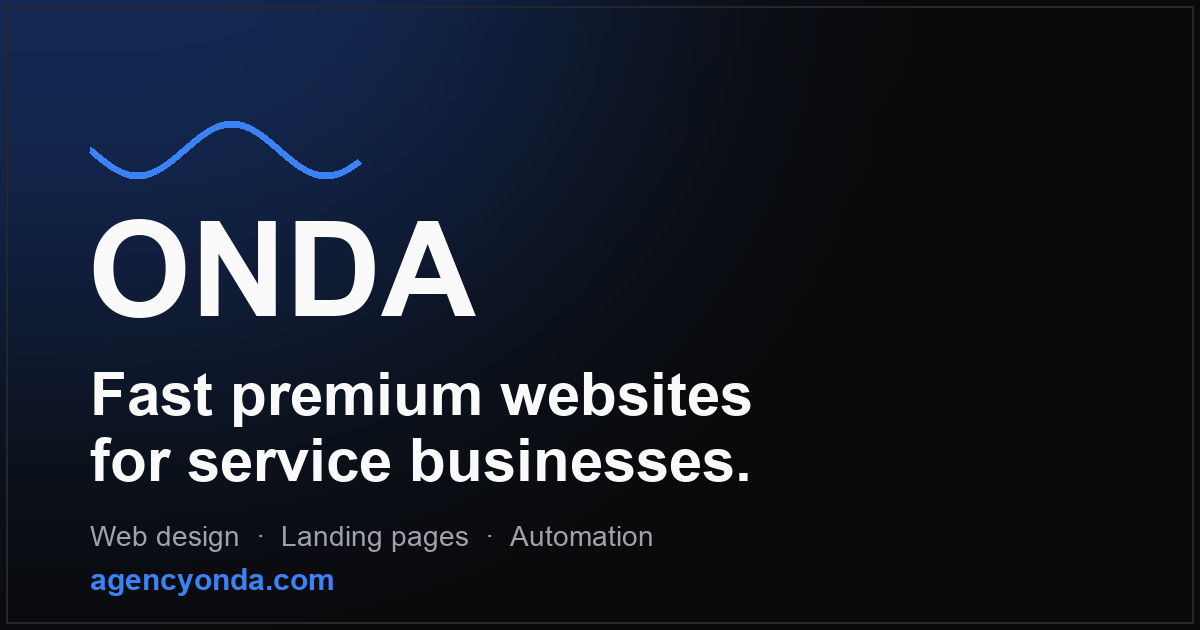
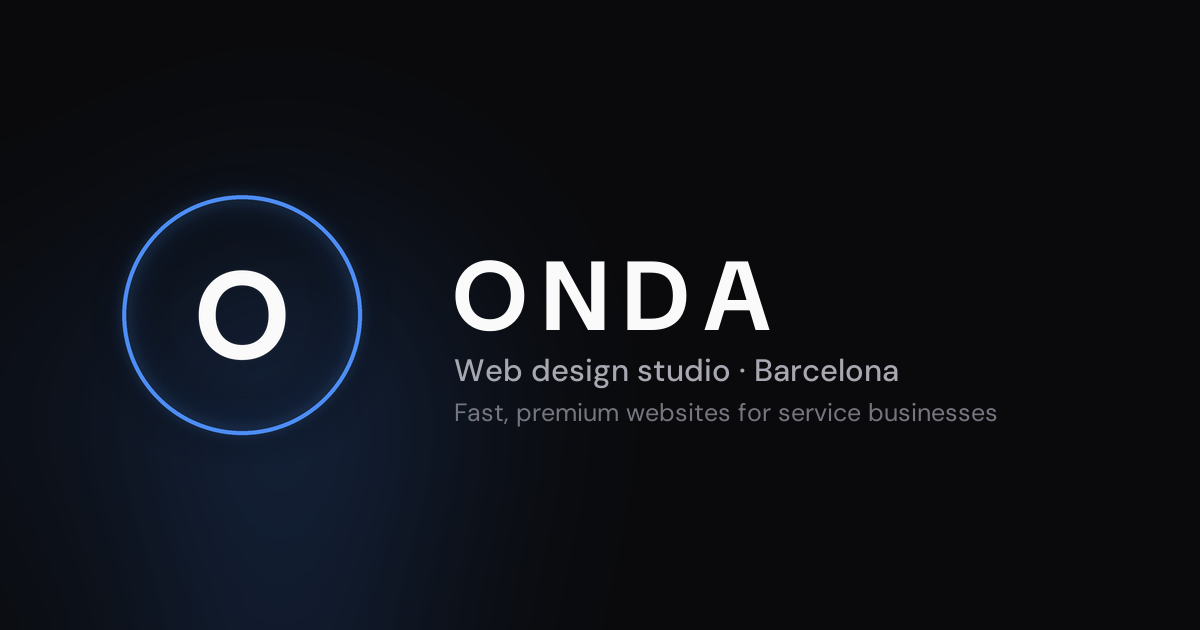
Designed share card + generated niche-page hero photos
og-image: replaced the share image with a proper 1200x630 card — the glowing
"O" mark + ONDA wordmark + "Web design studio · Barcelona" on the brand's dark
field (built with the real DM Sans font), instead of reusing a square asset.

Niche heroes: swapped the leftover stock heroes on all five vertical landing
pages (EN + ES) for bespoke 16:9 cinematic photos in the same art direction —
dental clinic, restaurant, real-estate living space, aesthetic clinic (replaces
the off-brand jewelry still life), and an architecture-studio still life. The
restaurants page also gains a real image (was a gradient placeholder). Removed
the four now-unused stock heroes (skyline/jewelry/dental/architecture).

diff --git a/frontend/web-design-restaurants-es.html b/frontend/web-design-restaurants-es.html
@@ -149,10 +149,7 @@
   <!-- niche cover -->
   <a class="cover lead-cover reveal" data-d="4" href="/index_es.html#contact" aria-label="Concepto de restaurante">
     <div class="media">
-      <div class="slot-serena" role="img" aria-label="Concepto de hospitalidad mediterránea cálida">
-        <span class="sun" aria-hidden="true"></span>
-        <span class="slot-tag">concepto · hospitalidad cálida</span>
-      </div>
+      <img src="/assets/niche/restaurants.webp" alt="Interior cálido de restaurante de alta gama al anochecer" width="2048" height="1152" loading="lazy" decoding="async" />
       <div class="scrim" aria-hidden="true"></div>
     </div>
     <div class="meta">

diff --git a/frontend/web-design-restaurants.html b/frontend/web-design-restaurants.html
@@ -149,10 +149,7 @@
   <!-- niche cover -->
   <a class="cover lead-cover reveal" data-d="4" href="/index_v5.html#contact" aria-label="Restaurant concept">
     <div class="media">
-      <div class="slot-serena" role="img" aria-label="Warm Mediterranean hospitality concept">
-        <span class="sun" aria-hidden="true"></span>
-        <span class="slot-tag">concept · warm hospitality</span>
-      </div>
+      <img src="/assets/niche/restaurants.webp" alt="Warm, upscale restaurant interior in the evening" width="2048" height="1152" loading="lazy" decoding="async" />
       <div class="scrim" aria-hidden="true"></div>
     </div>
     <div class="meta">

diff --git a/frontend/web-design-aesthetic-clinics-es.html b/frontend/web-design-aesthetic-clinics-es.html
@@ -149,7 +149,7 @@
   <!-- niche cover -->
   <a class="cover lead-cover reveal" data-d="4" href="/index_es.html#contact" aria-label="Concepto de clínica estética">
     <div class="media">
-      <img src="/assets/jewelry_hero.webp" alt="Bodegón de lujo oscuro iluminado como joya que evoca una clínica estética premium" loading="lazy" decoding="async" />
+      <img src="/assets/niche/aesthetic.webp" alt="Interior sereno de clínica estética de alta gama" width="2048" height="1152" loading="lazy" decoding="async" />
       <div class="grain" aria-hidden="true"></div>
       <div class="scrim" aria-hidden="true"></div>
     </div>

diff --git a/frontend/web-design-aesthetic-clinics.html b/frontend/web-design-aesthetic-clinics.html
@@ -149,7 +149,7 @@
   <!-- niche cover -->
   <a class="cover lead-cover reveal" data-d="4" href="/index_v5.html#contact" aria-label="Aesthetic clinic concept">
     <div class="media">
-      <img src="/assets/jewelry_hero.webp" alt="Dark luxury still life lit like a jewel, evoking a premium aesthetic clinic" loading="lazy" decoding="async" />
+      <img src="/assets/niche/aesthetic.webp" alt="Serene high-end aesthetic clinic interior" width="2048" height="1152" loading="lazy" decoding="async" />
       <div class="grain" aria-hidden="true"></div>
       <div class="scrim" aria-hidden="true"></div>
     </div>

diff --git a/frontend/web-design-architecture-studios-es.html b/frontend/web-design-architecture-studios-es.html
@@ -149,7 +149,7 @@
   <!-- niche cover -->
   <a class="cover lead-cover reveal" data-d="4" href="/index_es.html#contact" aria-label="Concepto de estudio de arquitectura">
     <div class="media">
-      <img src="/assets/architecture_studio_hero.png" alt="Arquitectura moderna escultural contra un cielo claro" loading="lazy" decoding="async" />
+      <img src="/assets/niche/architecture.webp" alt="Mesa de estudio de arquitectura con maquetas blancas y planos" width="2048" height="1152" loading="lazy" decoding="async" />
       <div class="grain" aria-hidden="true"></div>
       <div class="scrim" aria-hidden="true"></div>
     </div>

diff --git a/frontend/web-design-architecture-studios.html b/frontend/web-design-architecture-studios.html
@@ -149,7 +149,7 @@
   <!-- niche cover -->
   <a class="cover lead-cover reveal" data-d="4" href="/index_v5.html#contact" aria-label="Architecture studio concept">
     <div class="media">
-      <img src="/assets/architecture_studio_hero.png" alt="Sculptural modern architecture against a clear sky" loading="lazy" decoding="async" />
+      <img src="/assets/niche/architecture.webp" alt="Architecture studio desk with white scale models and blueprints" width="2048" height="1152" loading="lazy" decoding="async" />
       <div class="grain" aria-hidden="true"></div>
       <div class="scrim" aria-hidden="true"></div>
     </div>

diff --git a/frontend/web-design-dental-clinics-es.html b/frontend/web-design-dental-clinics-es.html
@@ -149,7 +149,7 @@
   <!-- niche cover -->
   <a class="cover lead-cover reveal" data-d="4" href="/index_es.html#contact" aria-label="Concepto de clínica dental">
     <div class="media">
-      <img src="/assets/dental_clinic_hero.png" alt="Interior de clínica dental moderna, luminosa y tranquila" loading="lazy" decoding="async" />
+      <img src="/assets/niche/dental.webp" alt="Interior de clínica dental moderna, luminosa y tranquila" width="2048" height="1152" loading="lazy" decoding="async" />
       <div class="grain" aria-hidden="true"></div>
       <div class="scrim" aria-hidden="true"></div>
     </div>

diff --git a/frontend/web-design-dental-clinics.html b/frontend/web-design-dental-clinics.html
@@ -149,7 +149,7 @@
   <!-- niche cover -->
   <a class="cover lead-cover reveal" data-d="4" href="/index_v5.html#contact" aria-label="Dental clinic concept">
     <div class="media">
-      <img src="/assets/dental_clinic_hero.png" alt="Modern, calm, brightly lit dental clinic interior" loading="lazy" decoding="async" />
+      <img src="/assets/niche/dental.webp" alt="Calm, bright modern dental clinic interior" width="2048" height="1152" loading="lazy" decoding="async" />
       <div class="grain" aria-hidden="true"></div>
       <div class="scrim" aria-hidden="true"></div>
     </div>

diff --git a/frontend/web-design-real-estate-es.html b/frontend/web-design-real-estate-es.html
@@ -149,7 +149,7 @@
   <!-- niche cover -->
   <a class="cover lead-cover reveal" data-d="4" href="/index_es.html#contact" aria-label="Concepto inmobiliario">
     <div class="media">
-      <img src="/assets/skyline_hero.webp" alt="Interior de ático de lujo oscuro y cinematográfico con vistas al skyline de una ciudad al atardecer" loading="lazy" decoding="async" />
+      <img src="/assets/niche/realestate.webp" alt="Salón de lujo al atardecer con vistas a la ciudad" width="2048" height="1152" loading="lazy" decoding="async" />
       <div class="grain" aria-hidden="true"></div>
       <div class="scrim" aria-hidden="true"></div>
     </div>

diff --git a/frontend/web-design-real-estate.html b/frontend/web-design-real-estate.html
@@ -149,7 +149,7 @@
   <!-- niche cover -->
   <a class="cover lead-cover reveal" data-d="4" href="/index_v5.html#contact" aria-label="Real estate concept">
     <div class="media">
-      <img src="/assets/skyline_hero.webp" alt="Dark, cinematic luxury penthouse interior overlooking a city skyline at dusk" loading="lazy" decoding="async" />
+      <img src="/assets/niche/realestate.webp" alt="Luxury modern living space at dusk with city views" width="2048" height="1152" loading="lazy" decoding="async" />
       <div class="grain" aria-hidden="true"></div>
       <div class="scrim" aria-hidden="true"></div>
     </div>